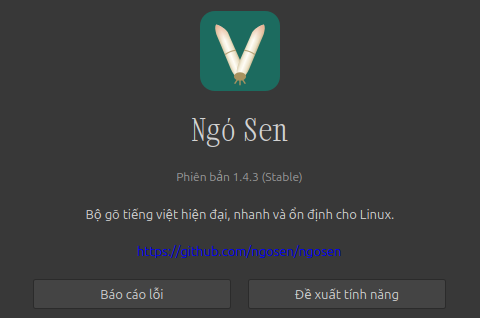
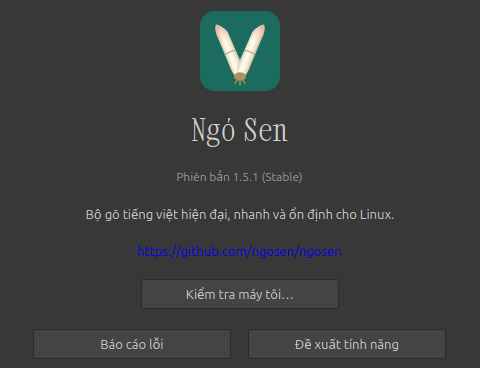
feat: update the site for release 1.5.1-1 (#19)
* feat: update the site for release 1.5.1-1

Add the 1.5.1-1 entry (system check #88 #90, Rust core on Debian 13 and
Ubuntu 22.04 #91, capitalisation after Enter #117, Custom hint #123,
shortcut warning layout #124) and its tests in the tested-level note, in
Vietnamese and on /en/. Debian 13 and Ubuntu 22.04 move to the Rust core.

The bug report guide gains a section on "Kiểm tra máy tôi…" and new
screenshots; the punctuation and keymap guides mention the Enter fix and
the Custom hint. Every step was carried out on Linux Mint 22.1 with the
released 1.5.1-1 package.

Claude-Session: https://claude.ai/code/session_01JdXPM1moo4vhf7hRzhm7ds

* feat: follow README and ROADMAP after release 1.5.1-1

The Rust core highlight now says every package uses it except Debian 12,
and the roadmap drops 1.5.0, which shipped in 1.5.1; #112 moves to
1.7.0. Both mirror ngosen/ngosen#129.

Claude-Session: https://claude.ai/code/session_01JdXPM1moo4vhf7hRzhm7ds

---------

diff --git a/src/data/site.ts b/src/data/site.ts
@@ -27,6 +27,46 @@ export const RELEASES: {
   prRepo?: string;
 }[] = [
   {
+    version: '1.5.1-1',
+    date: '18/10/2026',
+    summary:
+      'Nút “Kiểm tra máy tôi…” trong cửa sổ cài đặt, và lõi gõ Rust cho cả Debian 13 và Ubuntu 22.04. Version 1.5.0 không được phát hành; 1.5.1 là 1.5.0 thêm bản sửa viết hoa sau Enter.',
+    changes: [
+      {
+        claim:
+          'Nút “Kiểm tra máy tôi…” ở tab “Giới thiệu” xem fcitx5 có chạy không, Ngó Sen có trong danh sách bộ gõ không, các biến GTK_IM_MODULE, QT_IM_MODULE, XMODIFIERS có đúng không và IBus có chạy song song không.',
+        source: 'Mỗi lỗi kèm cách sửa. Trên KDE Wayland còn xem fcitx5 có được chọn làm bàn phím ảo không.',
+        pr: 88,
+      },
+      {
+        claim: '“Kiểm tra máy tôi” test được một app: gõ câu mẫu trong app, lưu nhật ký gõ rồi đọc lại trong cửa sổ đó.',
+        source:
+          'App có báo chữ cho bộ gõ thì tự biết gõ đúng hay sai. Nút “Báo cáo lỗi…” mở trang báo lỗi trên GitHub đã điền sẵn kết quả, không tự gửi gì.',
+        pr: 90,
+      },
+      {
+        claim: 'Gói Debian 13 và Ubuntu 22.04 chuyển sang lõi gõ Rust như các gói khác.',
+        source: 'Chỉ gói Debian 12 còn dùng lõi Go.',
+        pr: 91,
+      },
+      {
+        claim: '“Tự viết hoa đầu câu” viết hoa cả chữ đầu dòng sau Enter trong app GTK như xed.',
+        source: 'Trước đó app báo reset lúc xuống dòng, và bộ gõ quên mất chữ sau đó là đầu câu.',
+        pr: 117,
+      },
+      {
+        claim: 'Chọn kiểu gõ Custom khi chưa có phím nào thì cửa sổ cài đặt hiện dòng nhắc bật Keymap tuỳ chỉnh.',
+        source: 'Trước đó gõ không ra dấu mà cửa sổ không nói gì.',
+        pr: 123,
+      },
+      {
+        claim: 'Ở “Phím › Phím tắt”, cảnh báo trùng phím không còn đè lên tên chế độ.',
+        source: 'Hàng giãn ra cho đủ chỗ, nút phím không còn bị co lại.',
+        pr: 124,
+      },
+    ],
+  },
+  {
     version: '1.4.3-1',
     date: '17/10/2026',
     summary:
@@ -408,7 +448,7 @@ export const RELEASE = RELEASES[0];
 
 // Mirrors the paragraph under the table in packaging/release-notes.md.
 export const LEVELS_NOTE =
-  'Mức đã test lấy từ lần test version 0.5. Các bản sửa bảng tính trong 1.0 được test trên máy ảo CachyOS (KDE Wayland), với LibreOffice Calc, WPS Office và Google Sheets trong Firefox. Version 1.1 đổi tên các file cài vào máy. Lần cập nhật từ 1.0.0-1 được test trên máy ảo Linux Mint 22 (Cinnamon X11): cấu hình cũ được chép sang, bộ gõ vẫn nằm trong danh sách và gõ ra đúng chữ. Version 1.2 thay cửa sổ cài đặt. Lưu và Hoàn tác qua fcitx5 thật được test trên máy ảo Linux Mint 22 (Cinnamon X11), CachyOS (KDE Wayland) và Ubuntu 26.04 (GNOME Wayland). Trên máy ảo CachyOS (KDE Wayland), version 1.2 gõ ra đúng chữ trong GNOME Text Editor. Bản sửa lỗi đảo chữ trong gnome-terminal được test bằng client D-Bus giả lập và gõ tay trong gnome-terminal: không còn đảo chữ. Version 1.2.1 chỉ bỏ trang Ứng dụng khỏi cửa sổ cài đặt, bộ gõ không đổi. Cửa sổ 4 trang được mở trên máy ảo CachyOS (KDE Wayland), cả giao diện sáng và tối. Version 1.2.2 sửa nhãn cạnh con trỏ và lỗi mất dấu trên thanh địa chỉ Edge. Lỗi Edge được tái hiện bằng một test viết lại từ log gõ phím trên Fedora 44 (KDE Wayland), rồi gõ tay lại trên Edge sau khi sửa: ra đúng “ngó”, cạnh con trỏ hiện “vi”. Version 1.3.0 thêm tuỳ chọn Backspace xoá dấu thanh, được gõ tay trên Fedora 44 (KDE Wayland) với bản build từ nhánh next. Icon khay mới được xem trên máy ảo Linux Mint 22.3 (Cinnamon) và MX Linux 25.3 (Xfce). Gói Debian 13 được cài trên máy ảo MX Linux 25.3: Telex “vieejt” ra “việt” trong terminal GTK. Lần cập nhật từ 1.0.0-1 rồi chạy fcitx5 -rd cũng được test trên máy ảo MX Linux 25.3: Ngó Sen vẫn nằm trong danh sách bộ gõ. Version 1.4.0 chủ yếu đổi lệnh cài một dòng. Lệnh cài được chạy trên máy ảo Ubuntu 26.04 (GNOME Wayland), CachyOS (GNOME 51), Linux Mint (Cinnamon X11) và MX Linux 25 (Xfce X11) với bản build từ nhánh next: sau khi đăng nhập lại, Ctrl+Shift rồi Telex “tieengs vieetj” ra “tiếng việt” trong ô chữ GTK3, 3/3 lần trên mỗi máy. Lệnh gỡ được test trên Ubuntu 26.04 (IBus chạy lại) và MX Linux 25. Version 1.4.1 chỉ đổi lệnh cài, bộ gõ giữ nguyên như 1.4.0. Lệnh cài trên KDE được chạy trên máy ảo CachyOS (Plasma 6.7 Wayland) với tài khoản chưa cấu hình bộ gõ: sau khi đăng nhập lại, Ctrl+Shift rồi Telex “tieengs vieetj” ra “tiếng việt” 3/3 lần trong ô chữ Qt6 và 3/3 lần trong ô chữ GTK3; trước khi sửa, ô chữ Qt6 ra chữ thô. Với gói 1.4.0, Chrome 155, VS Code, Discord, Firefox và GNOME Text Editor (Flatpak) gõ đúng trên máy ảo Ubuntu 26.04 (GNOME Wayland); Chrome ép chạy qua Xwayland sai 5/30 lần. Version 1.4.2 là version sửa lỗi, test với bản build từ nhánh release/1.4.2. Ô hỏi của Gemini trong Chromium trên máy ảo CachyOS (Plasma Wayland): “ddown” ở đầu ô trống ra “đơn” 3/3 câu (trước khi sửa ra “n”). Trên Sway (CachyOS), dòng “dduwowngf tieengs vieetj…” ra đúng “đường tiếng việt…” trong ô chữ GTK3 và Firefox. Trên máy ảo Ubuntu 26.04 (GNOME Wayland), “ddwowngf tieengs vieetj” ra “đường tiếng việt” 2/2 lần trong Ptyxis và 2/2 lần trong GNOME Console. Gói ARM 64-bit được bạn ansidev cài và chạy trên Ubuntu 26.04 (máy ảo VMware) từ version thử. Version 1.4.3 là version sửa lỗi, test bằng gói Ubuntu 24.04 build từ PR #111 trên máy ảo Linux Mint 22.1 (Cinnamon X11, fcitx5 5.1.7): sau khi thêm “kạ” vào từ điển tuỳ chỉnh, bật “Từ điển tuỳ chỉnh” thì “kaj” ra “kạ” 2/2 lần, bỏ chọn thì ra “kaj” 2/2 lần. Cùng các bước đó với 1.4.2 thì cả hai lần đều ra “kạ”.';
+  'Mức đã test lấy từ lần test version 0.5. Các bản sửa bảng tính trong 1.0 được test trên máy ảo CachyOS (KDE Wayland), với LibreOffice Calc, WPS Office và Google Sheets trong Firefox. Version 1.1 đổi tên các file cài vào máy. Lần cập nhật từ 1.0.0-1 được test trên máy ảo Linux Mint 22 (Cinnamon X11): cấu hình cũ được chép sang, bộ gõ vẫn nằm trong danh sách và gõ ra đúng chữ. Version 1.2 thay cửa sổ cài đặt. Lưu và Hoàn tác qua fcitx5 thật được test trên máy ảo Linux Mint 22 (Cinnamon X11), CachyOS (KDE Wayland) và Ubuntu 26.04 (GNOME Wayland). Trên máy ảo CachyOS (KDE Wayland), version 1.2 gõ ra đúng chữ trong GNOME Text Editor. Bản sửa lỗi đảo chữ trong gnome-terminal được test bằng client D-Bus giả lập và gõ tay trong gnome-terminal: không còn đảo chữ. Version 1.2.1 chỉ bỏ trang Ứng dụng khỏi cửa sổ cài đặt, bộ gõ không đổi. Cửa sổ 4 trang được mở trên máy ảo CachyOS (KDE Wayland), cả giao diện sáng và tối. Version 1.2.2 sửa nhãn cạnh con trỏ và lỗi mất dấu trên thanh địa chỉ Edge. Lỗi Edge được tái hiện bằng một test viết lại từ log gõ phím trên Fedora 44 (KDE Wayland), rồi gõ tay lại trên Edge sau khi sửa: ra đúng “ngó”, cạnh con trỏ hiện “vi”. Version 1.3.0 thêm tuỳ chọn Backspace xoá dấu thanh, được gõ tay trên Fedora 44 (KDE Wayland) với bản build từ nhánh next. Icon khay mới được xem trên máy ảo Linux Mint 22.3 (Cinnamon) và MX Linux 25.3 (Xfce). Gói Debian 13 được cài trên máy ảo MX Linux 25.3: Telex “vieejt” ra “việt” trong terminal GTK. Lần cập nhật từ 1.0.0-1 rồi chạy fcitx5 -rd cũng được test trên máy ảo MX Linux 25.3: Ngó Sen vẫn nằm trong danh sách bộ gõ. Version 1.4.0 chủ yếu đổi lệnh cài một dòng. Lệnh cài được chạy trên máy ảo Ubuntu 26.04 (GNOME Wayland), CachyOS (GNOME 51), Linux Mint (Cinnamon X11) và MX Linux 25 (Xfce X11) với bản build từ nhánh next: sau khi đăng nhập lại, Ctrl+Shift rồi Telex “tieengs vieetj” ra “tiếng việt” trong ô chữ GTK3, 3/3 lần trên mỗi máy. Lệnh gỡ được test trên Ubuntu 26.04 (IBus chạy lại) và MX Linux 25. Version 1.4.1 chỉ đổi lệnh cài, bộ gõ giữ nguyên như 1.4.0. Lệnh cài trên KDE được chạy trên máy ảo CachyOS (Plasma 6.7 Wayland) với tài khoản chưa cấu hình bộ gõ: sau khi đăng nhập lại, Ctrl+Shift rồi Telex “tieengs vieetj” ra “tiếng việt” 3/3 lần trong ô chữ Qt6 và 3/3 lần trong ô chữ GTK3; trước khi sửa, ô chữ Qt6 ra chữ thô. Với gói 1.4.0, Chrome 155, VS Code, Discord, Firefox và GNOME Text Editor (Flatpak) gõ đúng trên máy ảo Ubuntu 26.04 (GNOME Wayland); Chrome ép chạy qua Xwayland sai 5/30 lần. Version 1.4.2 là version sửa lỗi, test với bản build từ nhánh release/1.4.2. Ô hỏi của Gemini trong Chromium trên máy ảo CachyOS (Plasma Wayland): “ddown” ở đầu ô trống ra “đơn” 3/3 câu (trước khi sửa ra “n”). Trên Sway (CachyOS), dòng “dduwowngf tieengs vieetj…” ra đúng “đường tiếng việt…” trong ô chữ GTK3 và Firefox. Trên máy ảo Ubuntu 26.04 (GNOME Wayland), “ddwowngf tieengs vieetj” ra “đường tiếng việt” 2/2 lần trong Ptyxis và 2/2 lần trong GNOME Console. Gói ARM 64-bit được bạn ansidev cài và chạy trên Ubuntu 26.04 (máy ảo VMware) từ version thử. Version 1.4.3 là version sửa lỗi, test bằng gói Ubuntu 24.04 build từ PR #111 trên máy ảo Linux Mint 22.1 (Cinnamon X11, fcitx5 5.1.7): sau khi thêm “kạ” vào từ điển tuỳ chỉnh, bật “Từ điển tuỳ chỉnh” thì “kaj” ra “kạ” 2/2 lần, bỏ chọn thì ra “kaj” 2/2 lần. Cùng các bước đó với 1.4.2 thì cả hai lần đều ra “kạ”. Version 1.5.0 không được phát hành. Gói 1.5.0 được gõ thử trên máy ảo Linux Mint 22.1 (Cinnamon X11, gói noble), Ubuntu 26.04 (GNOME Wayland, gói resolute) và MX Linux 25 (Xfce X11, gói trixie, lần đầu dùng lõi Rust): trên cả ba, “tieengs vieetj” ra “tiếng việt” trong ô chữ GTK3; trên MX, “nguwowif vieetj nam” ra “người việt nam”. Trên Ubuntu 26.04, chọn kiểu gõ Custom thì cửa sổ cài đặt hiện dòng nhắc, và “Kiểm tra máy tôi…” báo không có lỗi cài đặt. Gói 1.5.1 được gõ thử lại trên Mint và Ubuntu 26.04: bật “Tự viết hoa đầu câu”, gõ “ban. tooi”, Enter, “xin” ra “Xin” ở dòng mới (gói 1.5.0 ra “xin”); gõ thường vẫn ra “tiếng việt”.';
 
 // Mirrors the "Máy ARM 64-bit" row of packaging/release-notes.md, which spans several distros and cores.
 export const ARM_NOTE = {
@@ -483,7 +523,7 @@ export const DISTRIBUTIONS: Distribution[] = [
     level: 'vm',
     basis: '6 app trên máy ảo MX 25 (cùng nền Debian 13)',
     file: 'fcitx5-ngosen_*_trixie_amd64.deb',
-    core: 'Go',
+    core: 'Rust',
   },
   {
     name: 'Kali Rolling',
@@ -511,7 +551,7 @@ export const DISTRIBUTIONS: Distribution[] = [
     level: 'built',
     basis: 'chỉ build và chạy test lúc build',
     file: 'fcitx5-ngosen_*_jammy_amd64.deb',
-    core: 'Go',
+    core: 'Rust',
   },
   {
     name: 'Debian 12',
@@ -540,7 +580,7 @@ export const HIGHLIGHTS: { title: string; text: string }[] = [
   },
   {
     title: 'Lõi Rust',
-    text: 'Phần biến tieengs thành tiếng được viết lại bằng Rust. Gói cho Fedora, Arch, openSUSE và Ubuntu 24.04 trở lên dùng lõi Rust.',
+    text: 'Phần biến tieengs thành tiếng được viết lại bằng Rust. Mọi gói đều dùng lõi Rust, trừ gói cho Debian 12.',
   },
   {
     title: 'Cài bằng một dòng lệnh',
@@ -658,7 +698,7 @@ export const GUIDE = [
       {
         href: '/huong-dan/bao-loi/',
         label: 'Báo một lỗi gõ',
-        summary: 'Lưu nhật ký gõ ngay khi gõ ra chữ sai, rồi báo lỗi trên GitHub.',
+        summary: 'Lưu nhật ký gõ ngay khi gõ ra chữ sai, kiểm tra máy, rồi báo lỗi trên GitHub.',
       },
     ],
   },
@@ -675,19 +715,6 @@ export const ROADMAP: {
   items: { text: string; refs?: number[] }[];
 }[] = [
   {
-    version: '1.5.0',
-    items: [
-      {
-        text: 'Nút “Kiểm tra máy tôi…” trong cửa sổ cài đặt: xem fcitx5 và Ngó Sen đã cài đúng chưa, lỗi nào cũng kèm cách sửa, và test được một app gõ đúng hay sai.',
-        refs: [88, 90],
-      },
-      {
-        text: 'Gộp “Kiểm tra chính tả” vào “Tự khôi phục từ gõ sai”, vì nó chỉ có tác dụng khi Tự khôi phục đang bật.',
-        refs: [112],
-      },
-    ],
-  },
-  {
     version: '1.6.0',
     items: [
       {
@@ -702,7 +729,13 @@ export const ROADMAP: {
   },
   {
     version: '1.7.0',
-    items: [{ text: 'Làm lại cách chèn emoji.', refs: [110] }],
+    items: [
+      { text: 'Làm lại cách chèn emoji.', refs: [110] },
+      {
+        text: 'Gộp “Kiểm tra chính tả” vào “Tự khôi phục từ gõ sai”, vì nó chỉ có tác dụng khi Tự khôi phục đang bật.',
+        refs: [112],
+      },
+    ],
   },
   {
     items: [
